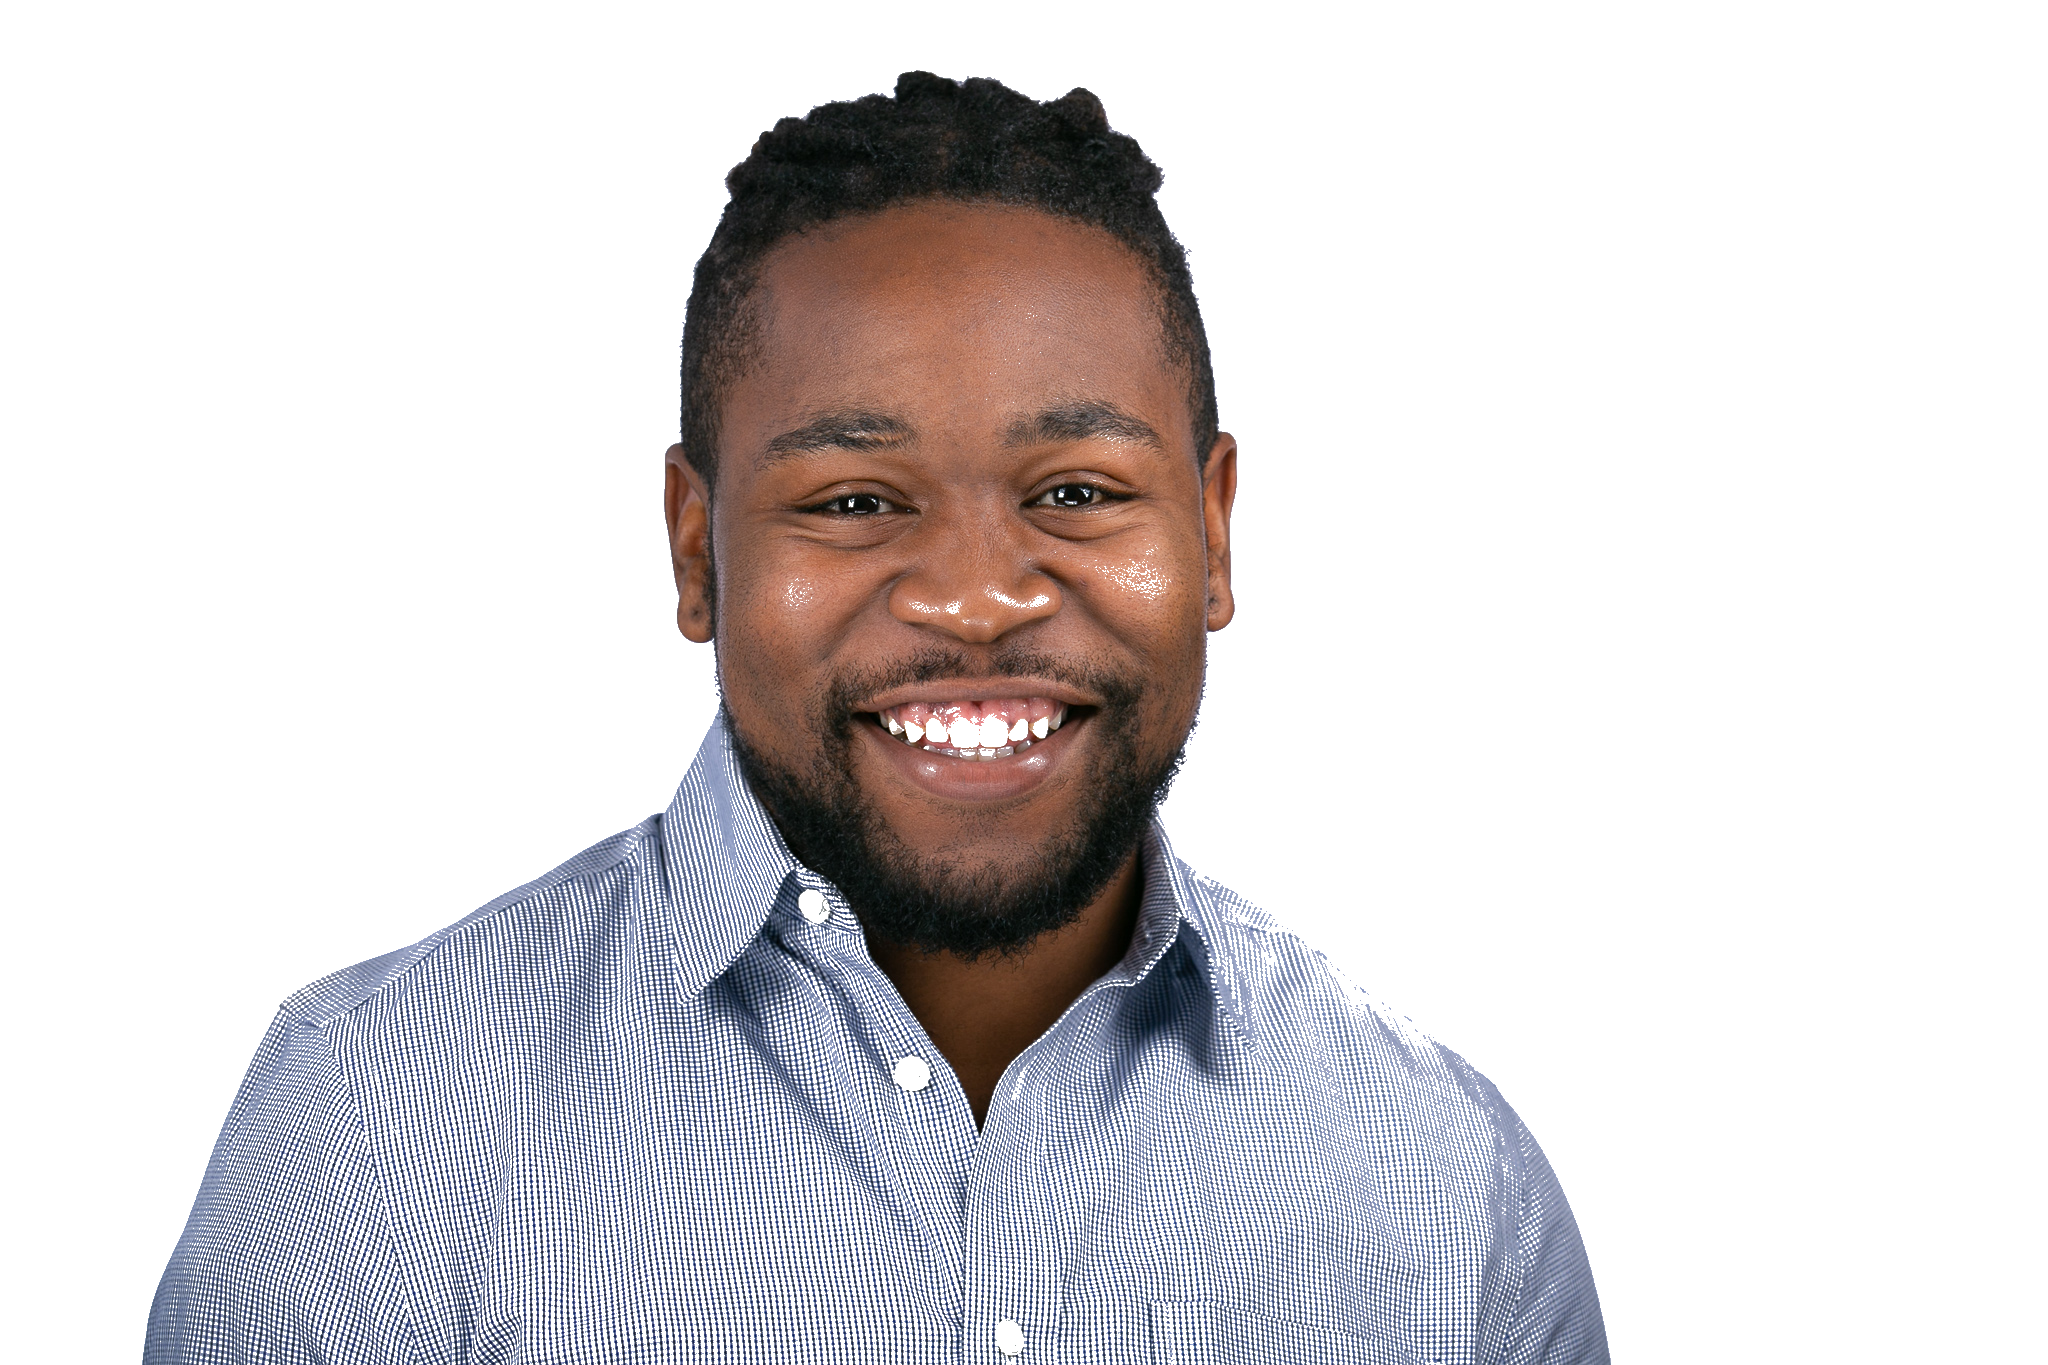
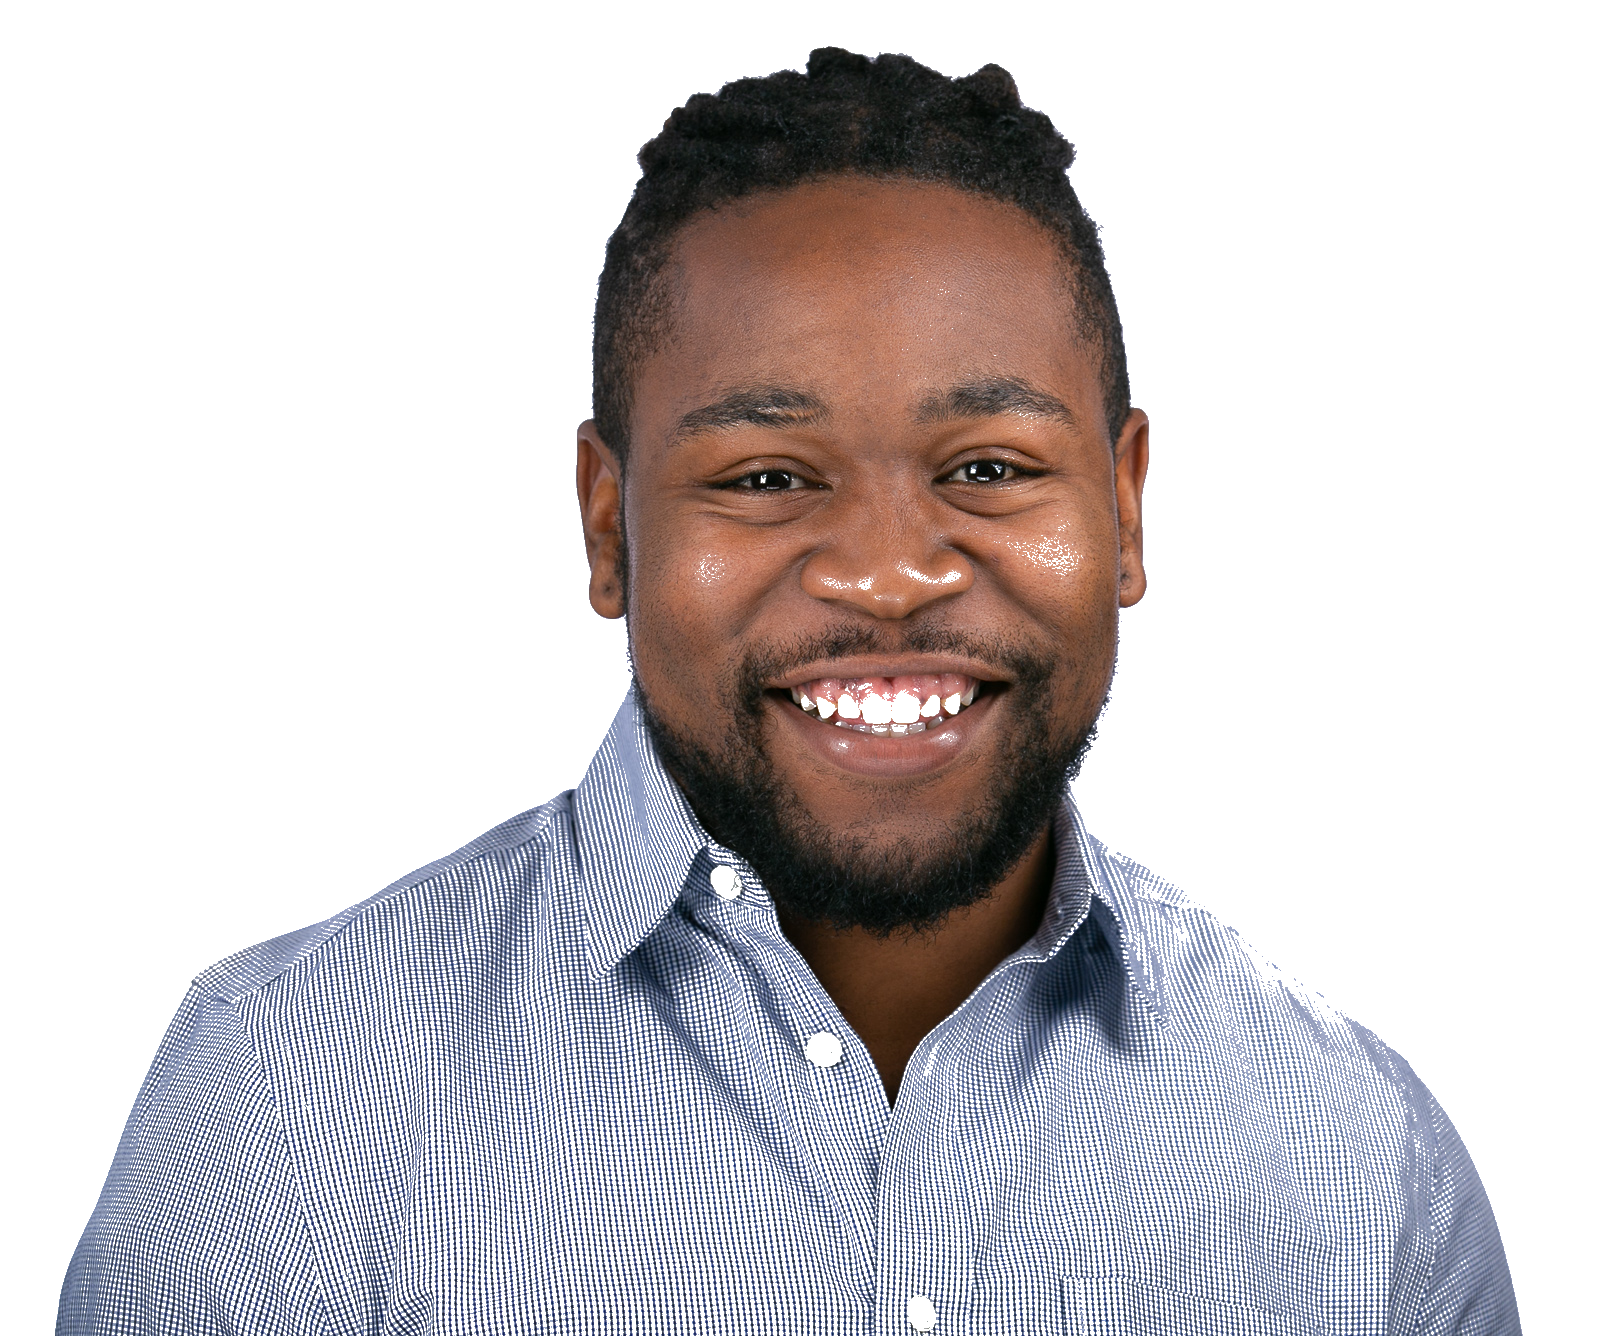
picture centered

diff --git a/src/Components/Home/Home.css b/src/Components/Home/Home.css
@@ -14,11 +14,15 @@
 }
 
 .fig {
-  text-align: center;
+  /* text-align: center; */
+  display: flex;
+  justify-content: center;
 }
 
 .profilepic {
-  width: 25rem;
+  width: 20rem;
+  display: block;
+  margin: 0 auto;
 }
 
 .homesum {
@@ -36,25 +40,12 @@
   font-size: 3rem;
 }
 
-/* i {
-  animation: spin 10s linear infinite;
-}
-
-@keyframes spin {
-  0% {
-    transform: rotateY(0);
-  }
-  100% {
-    transform: rotateY(360deg);
-  }
-} */
-
 @media all and (max-width: 800px) {
   .homesum {
     margin: 0;
   }
   .profilepic {
-    width: 18rem;
+    width: 20rem;
   }
   .skillcards {
     font-size: 1.8rem;

diff --git a/src/Components/Home/Home.js b/src/Components/Home/Home.js
@@ -11,9 +11,9 @@ class Home extends Component {
       <div>
         <div className="Homecontainer">
           <h2 className="titlename">Raymond Nwambuonwo</h2>
-          <figure className="fig">
-            <img className="profilepic" src={Ray} alt="" />
-          </figure>
+          {/* <div className="fig"> */}
+          <img className="profilepic" src={Ray} alt="" />
+          {/* </div> */}
           <h5 className="titlename">Software Engineer</h5>
           <p className="homesum">
             Software Engineer with an M.S. in Higher Education & Student Affairs
